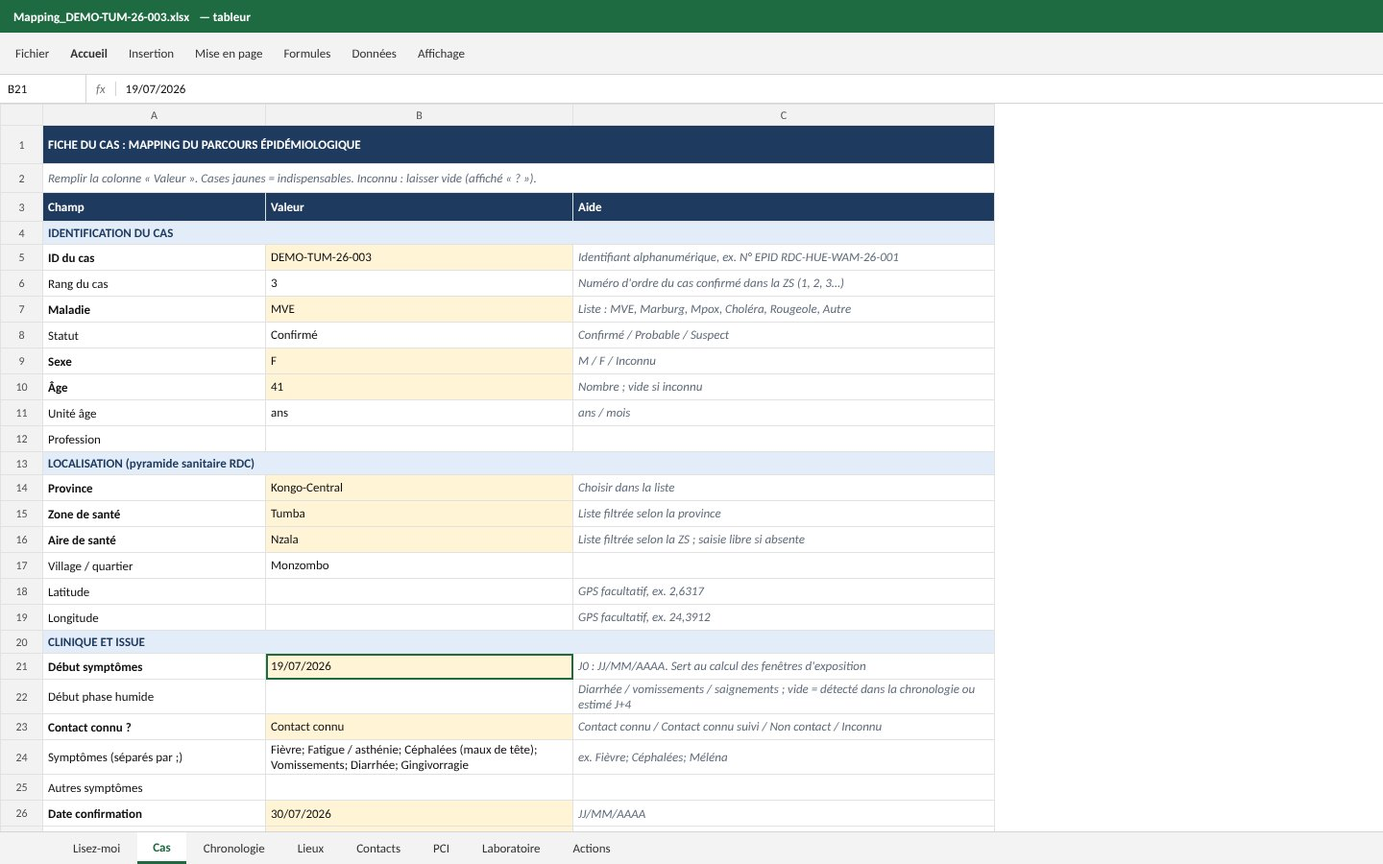
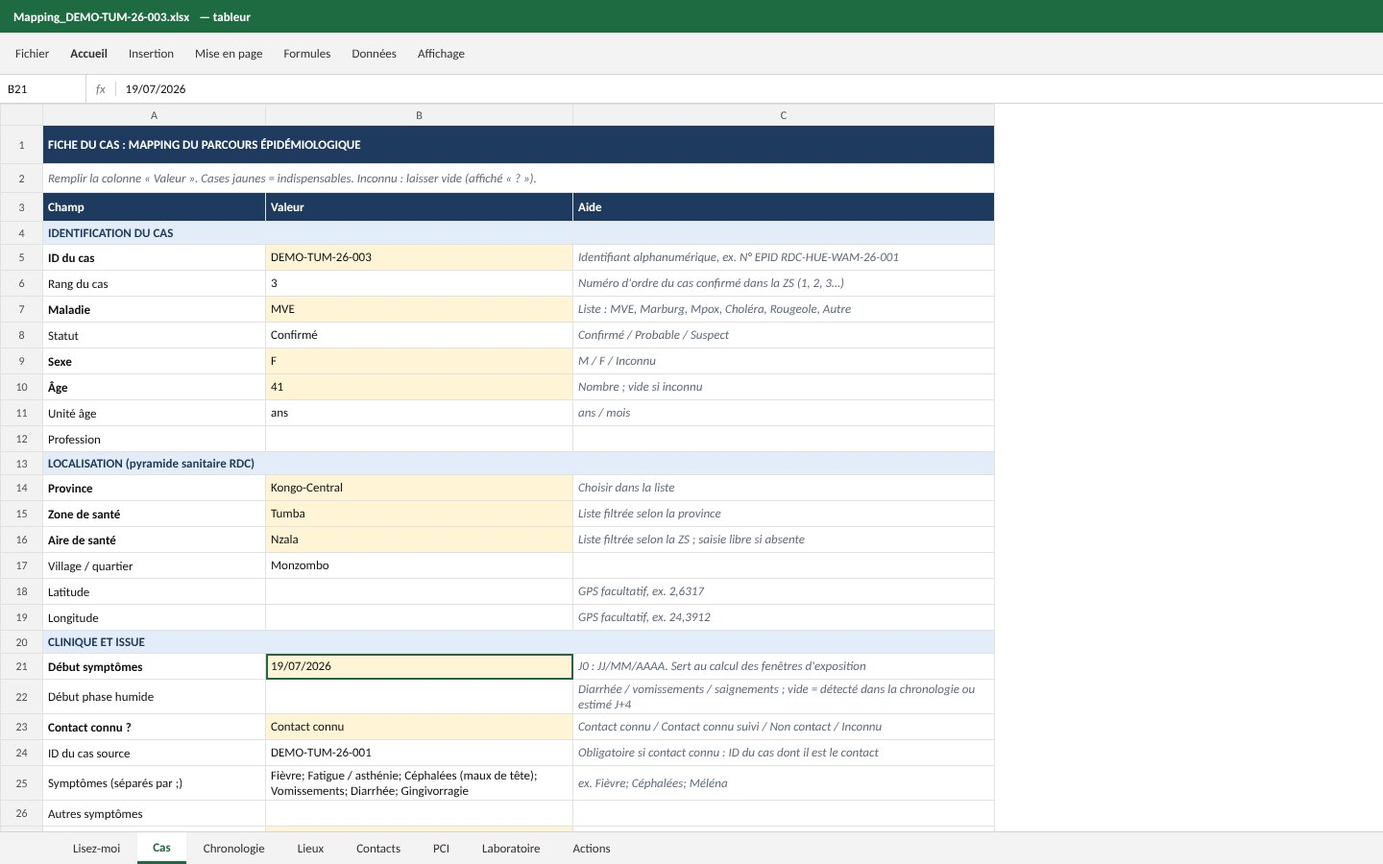
Tutoriel cliquable à jour : J0 retenu, ID du cas source, personnes présentes obligatoires, nouvelle partie « Ancien narratif »
Claude-Session: https://claude.ai/code/session_014G9ALLKpfwL9GyvWMWR1YP

Changed region(s): [[0.1875, 0.84, 0.625, 0.9644], [0.0312, 0.8711, 0.125, 0.9644]]

diff --git a/web/static/tutoriel/index.html b/web/static/tutoriel/index.html
@@ -23,7 +23,7 @@ body{background:var(--bg);color:var(--ink);font:15px/1.5 var(--f-body);margin:0}
 header{display:flex;flex-wrap:wrap;align-items:center;justify-content:space-between;gap:12px}
 h1{font-size:clamp(20px,2.4vw,26px);margin:0;letter-spacing:-.01em;text-wrap:balance}
 h1 small{display:block;font-size:13px;font-weight:500;color:var(--muted);letter-spacing:0;margin-top:2px}
-.chap{display:flex;background:var(--panel);border:1px solid var(--line);border-radius:10px;padding:4px;gap:4px}
+.chap{display:flex;flex-wrap:wrap;background:var(--panel);border:1px solid var(--line);border-radius:10px;padding:4px;gap:4px}
 .chap button{border:0;background:transparent;color:var(--muted);font:600 14px var(--f-body);padding:9px 14px;border-radius:7px;cursor:pointer}
 .chap button[aria-pressed="true"]{background:var(--navy);color:var(--panel)}
 .chap button:focus-visible,.nav button:focus-visible,.list button:focus-visible{outline:3px solid var(--hot);outline-offset:2px}
@@ -78,6 +78,7 @@ summary{cursor:pointer;font-weight:600;font-size:14px}
   <div class="chap" role="group" aria-label="Partie du tutoriel">
     <button id="c-web" aria-pressed="true">1 · Saisie dans l'outil</button>
     <button id="c-excel" aria-pressed="false">2 · Fichier Excel</button>
+    <button id="c-narr" aria-pressed="false">3 · Ancien narratif</button>
   </div>
 </header>
 <nav class="links" aria-label="Liens utiles">
@@ -105,17 +106,17 @@ summary{cursor:pointer;font-weight:600;font-size:14px}
 </main>
 </div>
 <script>
-const DATA = {"web": [{"chapter": "Outil en ligne", "img": "frames/w01.jpg", "title": "Ouvrir le site et s'identifier", "text": "Ouvrez l'adresse de Mapping Épi. Cliquez dans le champ « Identifiant » et tapez l'identifiant reçu de l'administrateur.", "value": "zs.tumba", "box": [36.88, 28.12, 26.25, 6.0]}, {"chapter": "Outil en ligne", "img": "frames/w02.jpg", "title": "Mot de passe", "text": "Tapez votre mot de passe personnel. Ne le partagez avec personne.", "value": "••••••••", "box": [36.88, 37.07, 26.25, 6.0]}, {"chapter": "Outil en ligne", "img": "frames/w03.jpg", "title": "Se connecter", "text": "Cliquez sur « Se connecter ».", "value": null, "box": [36.88, 43.3, 26.25, 6.19]}, {"chapter": "Outil en ligne", "img": "frames/w04.jpg", "title": "Créer une fiche", "text": "La page « Mes cas » liste vos fiches. Cliquez sur « + Nouveau cas » pour en créer une.", "value": null, "box": [69.12, 8.19, 11.11, 6.19]}, {"chapter": "Outil en ligne", "img": "frames/w05.jpg", "title": "ID du cas", "text": "Onglet « 1. Identité ». Tapez l'identifiant du cas (N° EPID), en lettres et chiffres.", "value": "DEMO-TUM-26-003", "box": [2.01, 37.72, 23.71, 6.0]}, {"chapter": "Outil en ligne", "img": "frames/w06.jpg", "title": "Contact connu ou non contact", "text": "Le cas était-il déjà un contact listé ? Cliquez sur le bon bouton : Contact connu, Contact connu suivi, Non contact ou Inconnu.", "value": "Contact connu", "box": [2.01, 46.96, 47.71, 6.0]}, {"chapter": "Outil en ligne", "img": "frames/w07.jpg", "title": "Sexe et âge", "text": "Choisissez le sexe et tapez l'âge. Âge inconnu : laissez vide (il s'affichera « ? »).", "value": "F · 41 ans", "box": [2.01, 55.91, 47.71, 6.0]}, {"chapter": "Outil en ligne", "img": "frames/w08.jpg", "title": "Province, zone et aire de santé", "text": "Choisissez dans l'ordre la province, puis la zone de santé, puis l'aire de santé : chaque liste se filtre selon la précédente.", "value": "Kongo-Central → Tumba → Nzala", "box": [2.01, 47.03, 47.71, 14.95]}, {"chapter": "Outil en ligne", "img": "frames/w09.jpg", "title": "Confirmation, issue, investigateur", "text": "Indiquez la date de confirmation, l'issue (vivant, décès…) et le nom de l'investigateur ou de l'équipe.", "value": "30/07/2026 · Décès · Équipe ZS Tumba", "box": [2.01, 56.11, 47.71, 15.15]}, {"chapter": "Outil en ligne", "img": "frames/w10.jpg", "title": "Onglet Clinique", "text": "Les champs de l'identité sont enregistrés automatiquement. Passez à l'onglet « 2. Clinique ».", "value": null, "box": [8.98, 17.26, 8.05, 6.31]}, {"chapter": "Outil en ligne", "img": "frames/w11.jpg", "title": "Début des symptômes (J0)", "text": "Tapez la date de début des symptômes rapportée par l'équipe. L'outil en déduit la période d'exposition estimée (J-21 → J-2) et les phases.", "value": "19/07/2026", "box": [2.01, 32.04, 23.71, 6.19]}, {"chapter": "Outil en ligne", "img": "frames/w12.jpg", "title": "Symptômes de la phase sèche", "text": "Cochez les symptômes rapportés. Ils sont groupés comme sur le schéma des phases : phase sèche, phase humide, signes hémorragiques.", "value": "Fièvre, fatigue, céphalées", "box": [2.01, 43.17, 47.71, 13.72]}, {"chapter": "Outil en ligne", "img": "frames/w13.jpg", "title": "Ajouter un symptôme absent de la liste", "text": "Un symptôme n'est pas dans la liste ? Tapez-le ici puis cliquez sur « + Ajouter le symptôme ».", "value": "Douleur thoracique", "box": [2.01, 77.3, 47.71, 6.0]}, {"chapter": "Outil en ligne", "img": "frames/w14.jpg", "title": "Onglet Chronologie", "text": "Passez à l'onglet « 3. Chronologie » : une ligne par étape du parcours du cas.", "value": null, "box": [16.48, 17.26, 10.08, 6.31]}, {"chapter": "Outil en ligne", "img": "frames/w15.jpg", "title": "Ajouter une étape", "text": "Cliquez sur « + Ajouter une étape » : une ligne vide apparaît.", "value": null, "box": [2.01, 34.99, 11.82, 5.11]}, {"chapter": "Outil en ligne", "img": "frames/w16.jpg", "title": "Remplir l'étape", "text": "Remplissez la ligne : date de début (et de fin pour une période), lieu, type d'étape, titre et description. Laissez « Risque » vide : l'outil le calcule.", "value": "02/07 → 15/07 · Marché de Nzala · Exposition", "box": [2.36, 44.6, 47.02, 5.56]}, {"chapter": "Outil en ligne", "img": "frames/w17.jpg", "title": "Toutes les étapes", "text": "Ajoutez de la même façon chaque étape (début des symptômes, hospitalisation, décès…). « Trier par date » remet les lignes dans l'ordre.", "value": null, "box": [13.69, 34.99, 8.65, 5.11]}, {"chapter": "Outil en ligne", "img": "frames/w18.jpg", "title": "Onglet Lieux", "text": "Passez à l'onglet « 4. Lieux ».", "value": null, "box": [26.0, 17.26, 6.62, 6.31]}, {"chapter": "Outil en ligne", "img": "frames/w19.jpg", "title": "Pré-remplir les lieux", "text": "Cliquez sur « Pré-remplir depuis la chronologie » : les lieux des étapes sont ajoutés. Complétez ensuite la population exposée.", "value": null, "box": [12.18, 32.82, 17.75, 5.11]}, {"chapter": "Outil en ligne", "img": "frames/w20.jpg", "title": "Onglet Contacts", "text": "Passez à l'onglet « 5. Contacts ».", "value": null, "box": [32.06, 17.26, 8.46, 6.31]}, {"chapter": "Outil en ligne", "img": "frames/w21.jpg", "title": "Ajouter une catégorie de contacts", "text": "Cliquez sur « + Ajouter une catégorie », puis indiquez la catégorie et le nombre de contacts. Nombre inconnu : laissez vide.", "value": "Famille & voisins · 24", "box": [2.01, 32.82, 13.58, 5.11]}, {"chapter": "Outil en ligne", "img": "frames/w22.jpg", "title": "Onglet Actions", "text": "Les contacts sont saisis (le « ? » rouge signale un nombre à compléter). Passez à l'onglet « 8. Actions ».", "value": null, "box": [10.95, 22.67, 7.76, 6.31]}, {"chapter": "Outil en ligne", "img": "frames/w23.jpg", "title": "Ajouter les actions", "text": "Cliquez sur « + Ajouter une action », décrivez-la, choisissez la priorité et le statut (« Fait » quand elle est réalisée).", "value": "Boucler tous les contacts · Urgent", "box": [2.01, 32.82, 12.07, 5.11]}, {"chapter": "Outil en ligne", "img": "frames/w24.jpg", "title": "Télécharger le mapping", "text": "L'aperçu à droite est à jour. Choisissez le format : PNG HD pour partager, PDF pour imprimer, PowerPoint pour une présentation modifiable.", "value": "PNG HD", "box": [51.32, 55.95, 47.99, 9.56]}, {"chapter": "Outil en ligne", "img": "frames/w_fin.jpg", "title": "Résultat : le mapping du cas", "text": "Voici le « Mapping complet – parcours épidémiologique » produit à partir de la saisie. Complétez la fiche quand de nouvelles informations arrivent : le mapping se met à jour.", "value": null, "box": null, "final": true}], "excel": [{"chapter": "Fichier Excel", "img": "frames/e01.jpg", "title": "Télécharger le modèle Excel", "text": "Sans connexion internet sur le terrain ? Remplissez le modèle Excel puis importez-le. Dans « Mes cas », cliquez sur « modèle Excel vierge » pour le télécharger.", "value": null, "box": [37.78, 37.06, 10.74, 3.44]}, {"chapter": "Fichier Excel", "img": "frames/e02.jpg", "title": "Lire la feuille « Lisez-moi »", "text": "Ouvrez le fichier dans Excel. La première feuille rappelle les règles : cellules jaunes indispensables, dates en JJ/MM/AAAA, cases vides si l'information est inconnue. Cliquez sur l'onglet « Cas ».", "value": null, "box": [9.74, 95.89, 4.05, 4.56], "file": "Modele_Mapping_ZS.xlsx"}, {"chapter": "Fichier Excel", "img": "frames/e03.jpg", "title": "Feuille Cas : identité du cas", "text": "Remplissez uniquement la colonne B « Valeur ». Commencez par l'ID du cas (cellule B5).", "value": "DEMO-TUM-26-003", "box": [18.92, 27.83, 22.78, 3.89], "file": "Modele_Mapping_ZS.xlsx"}, {"chapter": "Fichier Excel", "img": "frames/e04.jpg", "title": "Province, zone et aire de santé", "text": "Les cellules jaunes sont remplies. Province, zone de santé et aire de santé se choisissent dans une liste déroulante : cliquez sur la cellule puis sur la petite flèche.", "value": "Kongo-Central → Tumba → Nzala", "box": [18.92, 54.5, 22.78, 9.89], "file": "Mapping_DEMO-TUM-26-003.xlsx"}, {"chapter": "Fichier Excel", "img": "frames/e05.jpg", "title": "Clinique : J0, symptômes, contact connu", "text": "Plus bas : début des symptômes (J0) rapporté par l'équipe, symptômes séparés par des points-virgules, « Contact connu ? » et date de confirmation. Passez ensuite à l'onglet « Chronologie ».", "value": "19/07/2026", "box": [18.92, 75.17, 22.78, 20.93], "file": "Mapping_DEMO-TUM-26-003.xlsx"}, {"chapter": "Fichier Excel", "img": "frames/e06.jpg", "title": "Feuille Chronologie : une ligne par étape", "text": "Les en-têtes sont en ligne 3 : ne les modifiez pas. Saisissez la première étape en ligne 4 : date de début, date de fin (période), lieu, type (liste), titre et description.", "value": "02/07/2026 · Marché de Nzala · Exposition", "box": [2.75, 26.94, 97.49, 3.56], "file": "Mapping_DEMO-TUM-26-003.xlsx"}, {"chapter": "Fichier Excel", "img": "frames/e07.jpg", "title": "Toutes les étapes du parcours", "text": "Une ligne par étape, dans l'ordre. Une date inconnue reste vide. Les colonnes suivantes (transport, personnes présentes, corps, liquides, sans PCI, risque) se remplissent si l'information existe. Passez à l'onglet « Contacts ».", "value": null, "box": [24.46, 95.89, 5.96, 4.56], "file": "Mapping_DEMO-TUM-26-003.xlsx"}, {"chapter": "Fichier Excel", "img": "frames/e08.jpg", "title": "Feuille Contacts : catégories et nombres", "text": "Une ligne par catégorie de contacts. Colonne « Nombre » : laissez vide ou tapez « ? » si le nombre n'est pas connu (le mapping affichera « ? » en rouge). Indiquez la date du dernier contact pour le calcul du suivi.", "value": null, "box": [28.85, 26.94, 8.4, 22.22], "file": "Mapping_DEMO-TUM-26-003.xlsx"}, {"chapter": "Fichier Excel", "img": "frames/e09.jpg", "title": "Feuilles PCI, Laboratoire, Actions", "text": "Complétez de la même façon les onglets PCI, Laboratoire et Actions. Pour chaque action : priorité (Urgent, Important, Normal) et statut (« Fait » quand elle est réalisée). Enregistrez le fichier.", "value": null, "box": [27.12, 26.94, 33.47, 16.89], "file": "Mapping_DEMO-TUM-26-003.xlsx"}, {"chapter": "Fichier Excel", "img": "frames/e10.jpg", "title": "Importer le fichier rempli", "text": "De retour dans l'outil (« Mes cas ») : cliquez sur « Choisir un fichier », sélectionnez votre fichier Excel rempli, puis cliquez sur « Importer ».", "value": "Mapping_DEMO-TUM-26-003.xlsx", "box": [48.76, 35.73, 31.9, 6.19], "boxes": null}, {"chapter": "Fichier Excel", "img": "frames/e11.jpg", "title": "La fiche est créée", "text": "L'import crée la fiche complète et affiche son mapping. Vérifiez l'onglet « Contrôles », complétez ce qui manque, puis téléchargez le mapping (PNG, PDF, PowerPoint).", "value": null, "box": null, "final": true}]};
+const DATA = {"web": [{"chapter": "Outil en ligne", "img": "frames/w01.jpg", "title": "Ouvrir le site et s'identifier", "text": "Ouvrez l'adresse de Mapping Épi. Cliquez dans le champ « Identifiant » et tapez l'identifiant reçu de l'administrateur.", "value": "zs.tumba", "box": [36.88, 28.12, 26.25, 6.0]}, {"chapter": "Outil en ligne", "img": "frames/w02.jpg", "title": "Mot de passe", "text": "Tapez votre mot de passe personnel. Ne le partagez avec personne.", "value": "••••••••", "box": [36.88, 37.07, 26.25, 6.0]}, {"chapter": "Outil en ligne", "img": "frames/w03.jpg", "title": "Se connecter", "text": "Cliquez sur « Se connecter ».", "value": null, "box": [36.88, 43.3, 26.25, 6.19]}, {"chapter": "Outil en ligne", "img": "frames/w04.jpg", "title": "Créer une fiche", "text": "La page « Mes cas » liste vos fiches. Cliquez sur « + Nouveau cas » pour en créer une.", "value": null, "box": [69.12, 8.19, 11.11, 6.19]}, {"chapter": "Outil en ligne", "img": "frames/w05.jpg", "title": "ID du cas", "text": "Onglet « 1. Identité ». Tapez l'identifiant du cas (N° EPID), en lettres et chiffres.", "value": "DEMO-TUM-26-003", "box": [2.01, 37.72, 23.71, 6.0]}, {"chapter": "Outil en ligne", "img": "frames/w06.jpg", "title": "Contact connu ou non contact", "text": "Le cas était-il déjà un contact listé ? Cliquez sur le bon bouton : Contact connu, Contact connu suivi, Non contact ou Inconnu.", "value": "Contact connu", "box": [2.01, 46.96, 47.71, 6.0]}, {"chapter": "Outil en ligne", "img": "frames/w07.jpg", "title": "ID du cas source (obligatoire)", "text": "Pour un contact connu, tapez l'ID du cas dont il était le contact. Tant qu'il est vide, la case reste rouge et le mapping affiche « ID du cas source : à compléter ».", "value": "DEMO-TUM-26-001", "box": [2.01, 47.02, 23.71, 6.0]}, {"chapter": "Outil en ligne", "img": "frames/w08.jpg", "title": "Sexe et âge", "text": "Choisissez le sexe et tapez l'âge. Âge inconnu : laissez vide (il s'affichera « ? »).", "value": "F · 41 ans", "box": [2.01, 47.02, 47.71, 14.95]}, {"chapter": "Outil en ligne", "img": "frames/w09.jpg", "title": "Province, zone et aire de santé", "text": "Choisissez dans l'ordre la province, puis la zone de santé, puis l'aire de santé : chaque liste se filtre selon la précédente.", "value": "Kongo-Central → Tumba → Nzala", "box": [2.01, 47.03, 47.71, 14.95]}, {"chapter": "Outil en ligne", "img": "frames/w10.jpg", "title": "Confirmation, issue, investigateur", "text": "Indiquez la date de confirmation, l'issue (vivant, décès…) et le nom de l'investigateur ou de l'équipe.", "value": "30/07/2026 · Décès · Équipe ZS Tumba", "box": [2.01, 56.11, 47.71, 24.1]}, {"chapter": "Outil en ligne", "img": "frames/w11.jpg", "title": "Onglet Clinique", "text": "Les champs de l'identité sont enregistrés automatiquement. Passez à l'onglet « 2. Clinique ».", "value": null, "box": [8.98, 17.26, 8.05, 6.31]}, {"chapter": "Outil en ligne", "img": "frames/w12.jpg", "title": "Début des symptômes (J0)", "text": "Tapez la date de début des symptômes rapportée par l'équipe. La maladie ayant commencé 2 à 3 jours avant, l'outil retient J0 = date rapportée − 3 jours, puis estime la date d'exposition (J-21 → J-2) et les phases.", "value": "19/07/2026", "box": [2.01, 32.04, 23.71, 6.19]}, {"chapter": "Outil en ligne", "img": "frames/w13.jpg", "title": "Symptômes de la phase sèche", "text": "Cochez les symptômes rapportés. Ils sont groupés comme sur le schéma des phases : phase sèche, phase humide, signes hémorragiques.", "value": "Fièvre, fatigue, céphalées", "box": [2.01, 43.17, 47.71, 13.72]}, {"chapter": "Outil en ligne", "img": "frames/w14.jpg", "title": "Ajouter un symptôme absent de la liste", "text": "Un symptôme n'est pas dans la liste ? Tapez-le ici puis cliquez sur « + Ajouter le symptôme ».", "value": "Douleur thoracique", "box": [2.01, 77.3, 47.71, 6.0]}, {"chapter": "Outil en ligne", "img": "frames/w15.jpg", "title": "Onglet Chronologie", "text": "Passez à l'onglet « 3. Chronologie » : une ligne par étape du parcours du cas.", "value": null, "box": [16.48, 17.26, 10.08, 6.31]}, {"chapter": "Outil en ligne", "img": "frames/w16.jpg", "title": "Ajouter une étape", "text": "Cliquez sur « + Ajouter une étape » : une ligne vide apparaît.", "value": null, "box": [2.01, 34.99, 11.82, 5.11]}, {"chapter": "Outil en ligne", "img": "frames/w17.jpg", "title": "Remplir l'étape", "text": "Remplissez la ligne : date de début (et de fin pour une période), lieu, type d'étape, titre et description. Laissez « Risque » vide : l'outil le calcule.", "value": "02/07 → 15/07 · Marché de Nzala · Exposition", "box": [2.36, 44.6, 47.02, 5.56]}, {"chapter": "Outil en ligne", "img": "frames/w18.jpg", "title": "Personnes présentes (obligatoire)", "text": "Pour chaque étape, indiquez les personnes présentes. Une case vide reste rouge et l'étape affiche « Personnes : à compléter » sur le mapping.", "value": "Famille, soignants", "box": [36.61, 63.19, 13.06, 5.56]}, {"chapter": "Outil en ligne", "img": "frames/w19.jpg", "title": "Toutes les étapes", "text": "Ajoutez de la même façon chaque étape (début des symptômes, hospitalisation, décès…). « Trier par date » remet les lignes dans l'ordre.", "value": null, "box": [13.69, 34.99, 8.65, 5.11]}, {"chapter": "Outil en ligne", "img": "frames/w20.jpg", "title": "Onglet Lieux", "text": "Passez à l'onglet « 4. Lieux ».", "value": null, "box": [26.0, 17.26, 6.62, 6.31]}, {"chapter": "Outil en ligne", "img": "frames/w21.jpg", "title": "Pré-remplir les lieux", "text": "Cliquez sur « Pré-remplir depuis la chronologie » : les lieux des étapes sont ajoutés. Complétez ensuite les personnes exposées et leur nombre.", "value": null, "box": [12.18, 32.82, 17.75, 5.11]}, {"chapter": "Outil en ligne", "img": "frames/w22.jpg", "title": "Onglet Contacts", "text": "Passez à l'onglet « 5. Contacts ».", "value": null, "box": [32.06, 17.26, 8.46, 6.31]}, {"chapter": "Outil en ligne", "img": "frames/w23.jpg", "title": "Ajouter une catégorie de contacts", "text": "Cliquez sur « + Ajouter une catégorie », puis indiquez la catégorie et le nombre de contacts. Nombre inconnu : laissez vide.", "value": "Famille & voisins · 24", "box": [2.01, 32.82, 13.58, 5.11]}, {"chapter": "Outil en ligne", "img": "frames/w24.jpg", "title": "Onglet Actions", "text": "Les contacts sont saisis (le « ? » rouge signale un nombre à compléter). Passez à l'onglet « 8. Actions ».", "value": null, "box": [10.95, 22.67, 7.76, 6.31]}, {"chapter": "Outil en ligne", "img": "frames/w25.jpg", "title": "Ajouter les actions", "text": "Cliquez sur « + Ajouter une action », décrivez-la, choisissez la priorité et le statut (« Fait » quand elle est réalisée).", "value": "Boucler tous les contacts · Urgent", "box": [2.01, 32.82, 12.07, 5.11]}, {"chapter": "Outil en ligne", "img": "frames/w26.jpg", "title": "Télécharger le mapping", "text": "L'aperçu à droite est à jour. Choisissez le format : PNG HD pour partager, PDF pour imprimer, PowerPoint pour une présentation modifiable.", "value": "PNG HD", "box": [51.32, 55.95, 47.99, 9.56]}, {"chapter": "Outil en ligne", "img": "frames/w_fin.jpg", "title": "Résultat : le mapping du cas", "text": "Voici le « Mapping complet – parcours épidémiologique » produit à partir de la saisie. Complétez la fiche quand de nouvelles informations arrivent : le mapping se met à jour.", "value": null, "box": null, "final": true}], "excel": [{"chapter": "Fichier Excel", "img": "frames/e01.jpg", "title": "Télécharger le modèle Excel", "text": "Sans connexion internet sur le terrain ? Remplissez le modèle Excel puis importez-le. Dans « Mes cas », cliquez sur « modèle Excel vierge » pour le télécharger.", "value": null, "box": [23.02, 39.37, 10.75, 3.44]}, {"chapter": "Fichier Excel", "img": "frames/e02.jpg", "title": "Lire la feuille « Lisez-moi »", "text": "Ouvrez le fichier dans Excel. La première feuille rappelle les règles : cellules jaunes indispensables, dates en JJ/MM/AAAA, cases vides si l'information est inconnue. Cliquez sur l'onglet « Cas ».", "value": null, "box": [9.74, 95.89, 4.05, 4.56], "file": "Modele_Mapping_ZS.xlsx"}, {"chapter": "Fichier Excel", "img": "frames/e03.jpg", "title": "Feuille Cas : identité du cas", "text": "Remplissez uniquement la colonne B « Valeur ». Commencez par l'ID du cas (cellule B5).", "value": "DEMO-TUM-26-003", "box": [18.92, 27.83, 22.78, 3.89], "file": "Modele_Mapping_ZS.xlsx"}, {"chapter": "Fichier Excel", "img": "frames/e04.jpg", "title": "Province, zone et aire de santé", "text": "Les cellules jaunes sont remplies. Province, zone de santé et aire de santé se choisissent dans une liste déroulante : cliquez sur la cellule puis sur la petite flèche.", "value": "Kongo-Central → Tumba → Nzala", "box": [18.92, 54.5, 22.78, 9.89], "file": "Mapping_DEMO-TUM-26-003.xlsx"}, {"chapter": "Fichier Excel", "img": "frames/e05.jpg", "title": "Clinique : J0, symptômes, contact connu", "text": "Plus bas : début des symptômes (J0) rapporté par l'équipe, symptômes séparés par des points-virgules, « Contact connu ? » et date de confirmation. Passez ensuite à l'onglet « Chronologie ».", "value": "19/07/2026", "box": [18.92, 75.17, 22.78, 20.93], "file": "Mapping_DEMO-TUM-26-003.xlsx"}, {"chapter": "Fichier Excel", "img": "frames/e06.jpg", "title": "Feuille Chronologie : une ligne par étape", "text": "Les en-têtes sont en ligne 3 : ne les modifiez pas. Saisissez la première étape en ligne 4 : date de début, date de fin (période), lieu, type (liste), titre et description.", "value": "02/07/2026 · Marché de Nzala · Exposition", "box": [2.75, 26.94, 97.49, 3.56], "file": "Mapping_DEMO-TUM-26-003.xlsx"}, {"chapter": "Fichier Excel", "img": "frames/e07.jpg", "title": "Toutes les étapes du parcours", "text": "Une ligne par étape, dans l'ordre. Une date inconnue reste vide. Les colonnes suivantes (transport, personnes présentes, corps, liquides, sans PCI, risque) se remplissent si l'information existe. Passez à l'onglet « Contacts ».", "value": null, "box": [24.46, 95.89, 5.96, 4.56], "file": "Mapping_DEMO-TUM-26-003.xlsx"}, {"chapter": "Fichier Excel", "img": "frames/e08.jpg", "title": "Feuille Contacts : catégories et nombres", "text": "Une ligne par catégorie de contacts. Colonne « Nombre » : laissez vide ou tapez « ? » si le nombre n'est pas connu (le mapping affichera « ? » en rouge). Indiquez la date du dernier contact pour le calcul du suivi.", "value": null, "box": [28.85, 26.94, 8.4, 22.22], "file": "Mapping_DEMO-TUM-26-003.xlsx"}, {"chapter": "Fichier Excel", "img": "frames/e09.jpg", "title": "Feuilles PCI, Laboratoire, Actions", "text": "Complétez de la même façon les onglets PCI, Laboratoire et Actions. Pour chaque action : priorité (Urgent, Important, Normal) et statut (« Fait » quand elle est réalisée). Enregistrez le fichier.", "value": null, "box": [27.12, 26.94, 33.47, 16.89], "file": "Mapping_DEMO-TUM-26-003.xlsx"}, {"chapter": "Fichier Excel", "img": "frames/e10.jpg", "title": "Importer le fichier rempli", "text": "De retour dans l'outil (« Mes cas ») : cliquez sur « Choisir un fichier », sélectionnez votre fichier Excel rempli, puis cliquez sur « Importer ».", "value": "Mapping_DEMO-TUM-26-003.xlsx", "box": [11.04, 42.78, 31.9, 6.19], "boxes": null}, {"chapter": "Fichier Excel", "img": "frames/e11.jpg", "title": "La fiche est créée", "text": "L'import crée la fiche complète et affiche son mapping. Vérifiez l'onglet « Contrôles », complétez ce qui manque, puis téléchargez le mapping (PNG, PDF, PowerPoint).", "value": null, "box": null, "final": true}], "narr": [{"chapter": "Importer un narratif", "img": "frames/n01.jpg", "title": "Choisir le narratif", "text": "Vous avez déjà un narratif Word ou PowerPoint ? Sur la page « Mes cas », cliquez sur « Choisir un fichier » et sélectionnez-le (.docx, .pptx ou .ppt).", "value": "Narratif_cas_FICTIF.docx", "box": [11.04, 50.05, 24.44, 6.11], "file": null}, {"chapter": "Importer un narratif", "img": "frames/n02.jpg", "title": "Importer", "text": "Cliquez sur « Importer ». L'outil lit le narratif et remplit la fiche : identité, dates, chronologie, symptômes, contacts, PCI, laboratoire et actions.", "value": null, "box": [35.35, 50.0, 7.59, 6.19]}, {"chapter": "Importer un narratif", "img": "frames/n03.jpg", "title": "Lire le message", "text": "Le message liste ce qui a été trouvé et ce qui reste à compléter. Rien n'est inventé : une information absente du narratif reste vide.", "value": null, "box": [0.69, 7.31, 98.61, 8.83]}, {"chapter": "Importer un narratif", "img": "frames/n04.jpg", "title": "Vérifier la chronologie", "text": "Ouvrez l'onglet « 3. Chronologie » : chaque phrase datée du récit est devenue une étape.", "value": null, "box": [16.48, 26.31, 10.08, 6.31]}, {"chapter": "Importer un narratif", "img": "frames/n05.jpg", "title": "Compléter ce qui manque", "text": "Contrôlez chaque ligne et complétez les cases rouges (personnes présentes…). Faites de même dans chaque onglet avant de diffuser le mapping.", "value": null, "box": [36.61, 53.66, 13.06, 5.56]}, {"chapter": "Importer un narratif", "img": "frames/n_fin.jpg", "title": "Résultat : le mapping du narratif", "text": "Le mapping est produit directement à partir du narratif. Les informations manquantes apparaissent « à compléter » en rouge.", "value": null, "box": null, "final": true}]};
 const $ = id => document.getElementById(id);
 let chap = 'web', i = 0;
 try { const s = JSON.parse(localStorage.getItem('pg-pos') || 'null'); if (s && DATA[s.c]) { chap = s.c; i = Math.min(s.i, DATA[s.c].length - 1); } } catch (e) {}
 function steps(){ return DATA[chap]; }
 function render(){
   const S = steps(), s = S[i];
-  $('c-web').setAttribute('aria-pressed', chap === 'web'); $('c-excel').setAttribute('aria-pressed', chap === 'excel');
+  $('c-web').setAttribute('aria-pressed', chap === 'web'); $('c-excel').setAttribute('aria-pressed', chap === 'excel'); $('c-narr').setAttribute('aria-pressed', chap === 'narr');
   $('img').src = s.img; $('img').alt = s.title;
   $('url').textContent = s.file || 'mapping-epi.37-27-154-249.sslip.io';
-  $('count').textContent = (chap === 'web' ? 'Saisie dans l’outil' : 'Fichier Excel') + ' · étape ' + (i + 1) + ' / ' + S.length;
+  $('count').textContent = ({web: 'Saisie dans l’outil', excel: 'Fichier Excel', narr: 'Ancien narratif'}[chap]) + ' · étape ' + (i + 1) + ' / ' + S.length;
   $('prog').style.width = ((i + 1) / S.length * 100) + '%';
   $('title').textContent = s.title; $('text').textContent = s.text;
   $('valbox').hidden = !s.value; $('val').textContent = s.value || '';
@@ -128,13 +129,19 @@ function render(){
     tip.style.left = (x + w / 2) + '%'; tip.style.top = (below ? y + h : y) + '%';
     tip.style.transform = below ? 'translate(-50%,10px)' : 'translate(-50%,calc(-100% - 10px))';
     tip.textContent = s.value ? 'Cliquez ici · ' + (s.value.length > 28 ? s.value.slice(0, 27) + '…' : s.value) : 'Cliquez ici';
+    // garder la bulle entière dans l'image (écrans étroits)
+    requestAnimationFrame(() => { const st = $('shot').getBoundingClientRect(), r = tip.getBoundingClientRect();
+      let dx = 0; if (r.left < st.left + 4) dx = st.left + 4 - r.left; else if (r.right > st.right - 4) dx = st.right - 4 - r.right;
+      if (dx) tip.style.left = 'calc(' + (x + w / 2) + '% + ' + dx + 'px)'; });
     $('hint').innerHTML = '<b></b>Cliquez sur la zone encadrée en rouge pour continuer.';
   } else {
     hot.hidden = true; tip.hidden = true;
-    $('hint').innerHTML = chap === 'web' ? '<span class="done">✔ Terminé.</span>&nbsp;Passez à la partie « Fichier Excel » ou recommencez.' : '<span class="done">✔ Terminé.</span>&nbsp;Vous savez saisir un cas en ligne et par Excel.';
+    $('hint').innerHTML = {web: '<span class="done">✔ Terminé.</span>&nbsp;Passez à la partie « Fichier Excel » ou recommencez.',
+      excel: '<span class="done">✔ Terminé.</span>&nbsp;Passez à la partie « Ancien narratif » ou recommencez.',
+      narr: '<span class="done">✔ Terminé.</span>&nbsp;Vous savez saisir un cas en ligne, par Excel et à partir d’un narratif.'}[chap];
   }
   $('prev').disabled = i === 0;
-  $('next').textContent = i === S.length - 1 ? (chap === 'web' ? 'Partie Excel →' : 'Recommencer ↺') : 'Suivant →';
+  $('next').textContent = i === S.length - 1 ? ({web: 'Partie Excel →', excel: 'Partie narratif →', narr: 'Recommencer ↺'}[chap]) : 'Suivant →';
   const L = $('list'); L.innerHTML = '';
   S.forEach((t, k) => { const li = document.createElement('li'); const b = document.createElement('button');
     b.innerHTML = '<span>' + (k + 1) + '</span>'; b.appendChild(document.createTextNode(t.title)); if (k === i) b.setAttribute('aria-current', 'step');
@@ -142,7 +149,7 @@ function render(){
   const nx = S[i + 1]; if (nx) { const im = new Image(); im.src = nx.img; }
   try { localStorage.setItem('pg-pos', JSON.stringify({c: chap, i})); } catch (e) {}
 }
-function next(){ const S = steps(); if (i < S.length - 1) { i++; } else if (chap === 'web') { chap = 'excel'; i = 0; } else { chap = 'web'; i = 0; } render(); }
+function next(){ const S = steps(); if (i < S.length - 1) { i++; } else { chap = {web: 'excel', excel: 'narr', narr: 'web'}[chap]; i = 0; } render(); }
 function prev(){ if (i > 0) { i--; render(); } }
 $('hot').addEventListener('click', e => { e.stopPropagation(); next(); });
 $('hot').addEventListener('keydown', e => { if (e.key === 'Enter' || e.key === ' ') { e.preventDefault(); next(); } });
@@ -150,6 +157,7 @@ $('shot').addEventListener('click', () => { const h = $('hot'); if (h.hidden) re
 $('next').onclick = next; $('prev').onclick = prev;
 $('c-web').onclick = () => { chap = 'web'; i = 0; render(); };
 $('c-excel').onclick = () => { chap = 'excel'; i = 0; render(); };
+$('c-narr').onclick = () => { chap = 'narr'; i = 0; render(); };
 document.addEventListener('keydown', e => { if (e.target.closest('input,textarea')) return; if (e.key === 'ArrowRight') next(); if (e.key === 'ArrowLeft') prev(); });
 render();
 </script>
